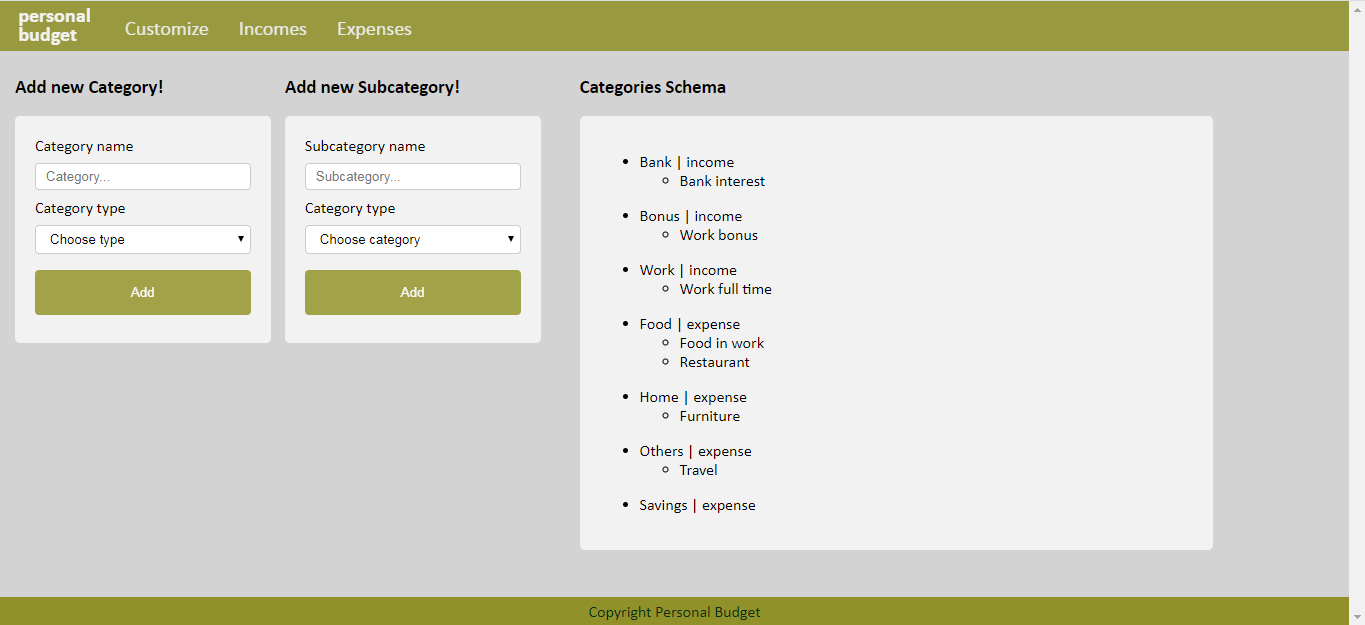
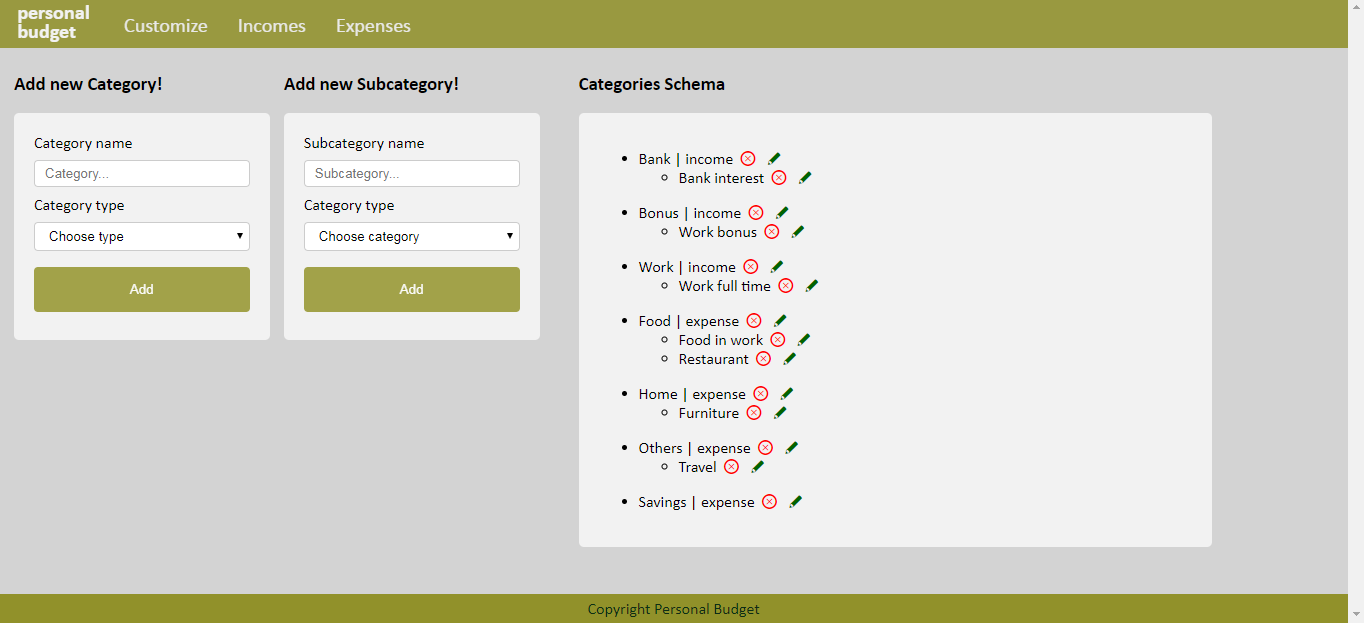
editing category/subcategory

diff --git a/src/main/java/com/company/budgetWebApp/api/IncomeController.java b/src/main/java/com/company/budgetWebApp/api/IncomeController.java
@@ -1,11 +1,9 @@
 package com.company.budgetWebApp.api;
 
-import com.company.budgetWebApp.dao.entity.ExpenseEntity;
 import com.company.budgetWebApp.dao.entity.IncomeEntity;
 import com.company.budgetWebApp.dao.entity.SubcategoryEntity;
 import com.company.budgetWebApp.service.IncomeService;
 import com.company.budgetWebApp.service.SubcategoryService;
-import com.company.budgetWebApp.service.dto.ExpenseDTO;
 import com.company.budgetWebApp.service.dto.IncomeDTO;
 import com.company.budgetWebApp.service.dto.SubcategoryDTO;
 import org.springframework.beans.factory.annotation.Autowired;

diff --git a/src/main/java/com/company/budgetWebApp/api/SubcategoryController.java b/src/main/java/com/company/budgetWebApp/api/SubcategoryController.java
@@ -67,7 +67,7 @@ public class SubcategoryController {
         SubcategoryEntity subcategoryEntity = subcategoryService.findById(id).get();
         SubcategoryDTO subcategoryDTO = subcategoryService.mapSubcategoryEntityToDto(subcategoryEntity);
         model.addAttribute("subcategoryDTO", subcategoryDTO);
-        return "redirect:/app/subcategory/customize";
+        return "appEditSubcategory";
     }
 
     @PostMapping("/edit/{id}")

diff --git a/src/main/java/com/company/budgetWebApp/api/CategoryController.java b/src/main/java/com/company/budgetWebApp/api/CategoryController.java
@@ -52,7 +52,7 @@ public class CategoryController {
         CategoryEntity categoryEntity = categoryService.findById(id).get();
         CategoryDTO categoryDTO = categoryService.mapCategoryEntityToDto(categoryEntity);
         model.addAttribute("categoryDTO",categoryDTO);
-        return "redirect:/app/subcategory/customize";
+        return "appEditCategory";
     }
 
     @PostMapping("/edit/{id}")
